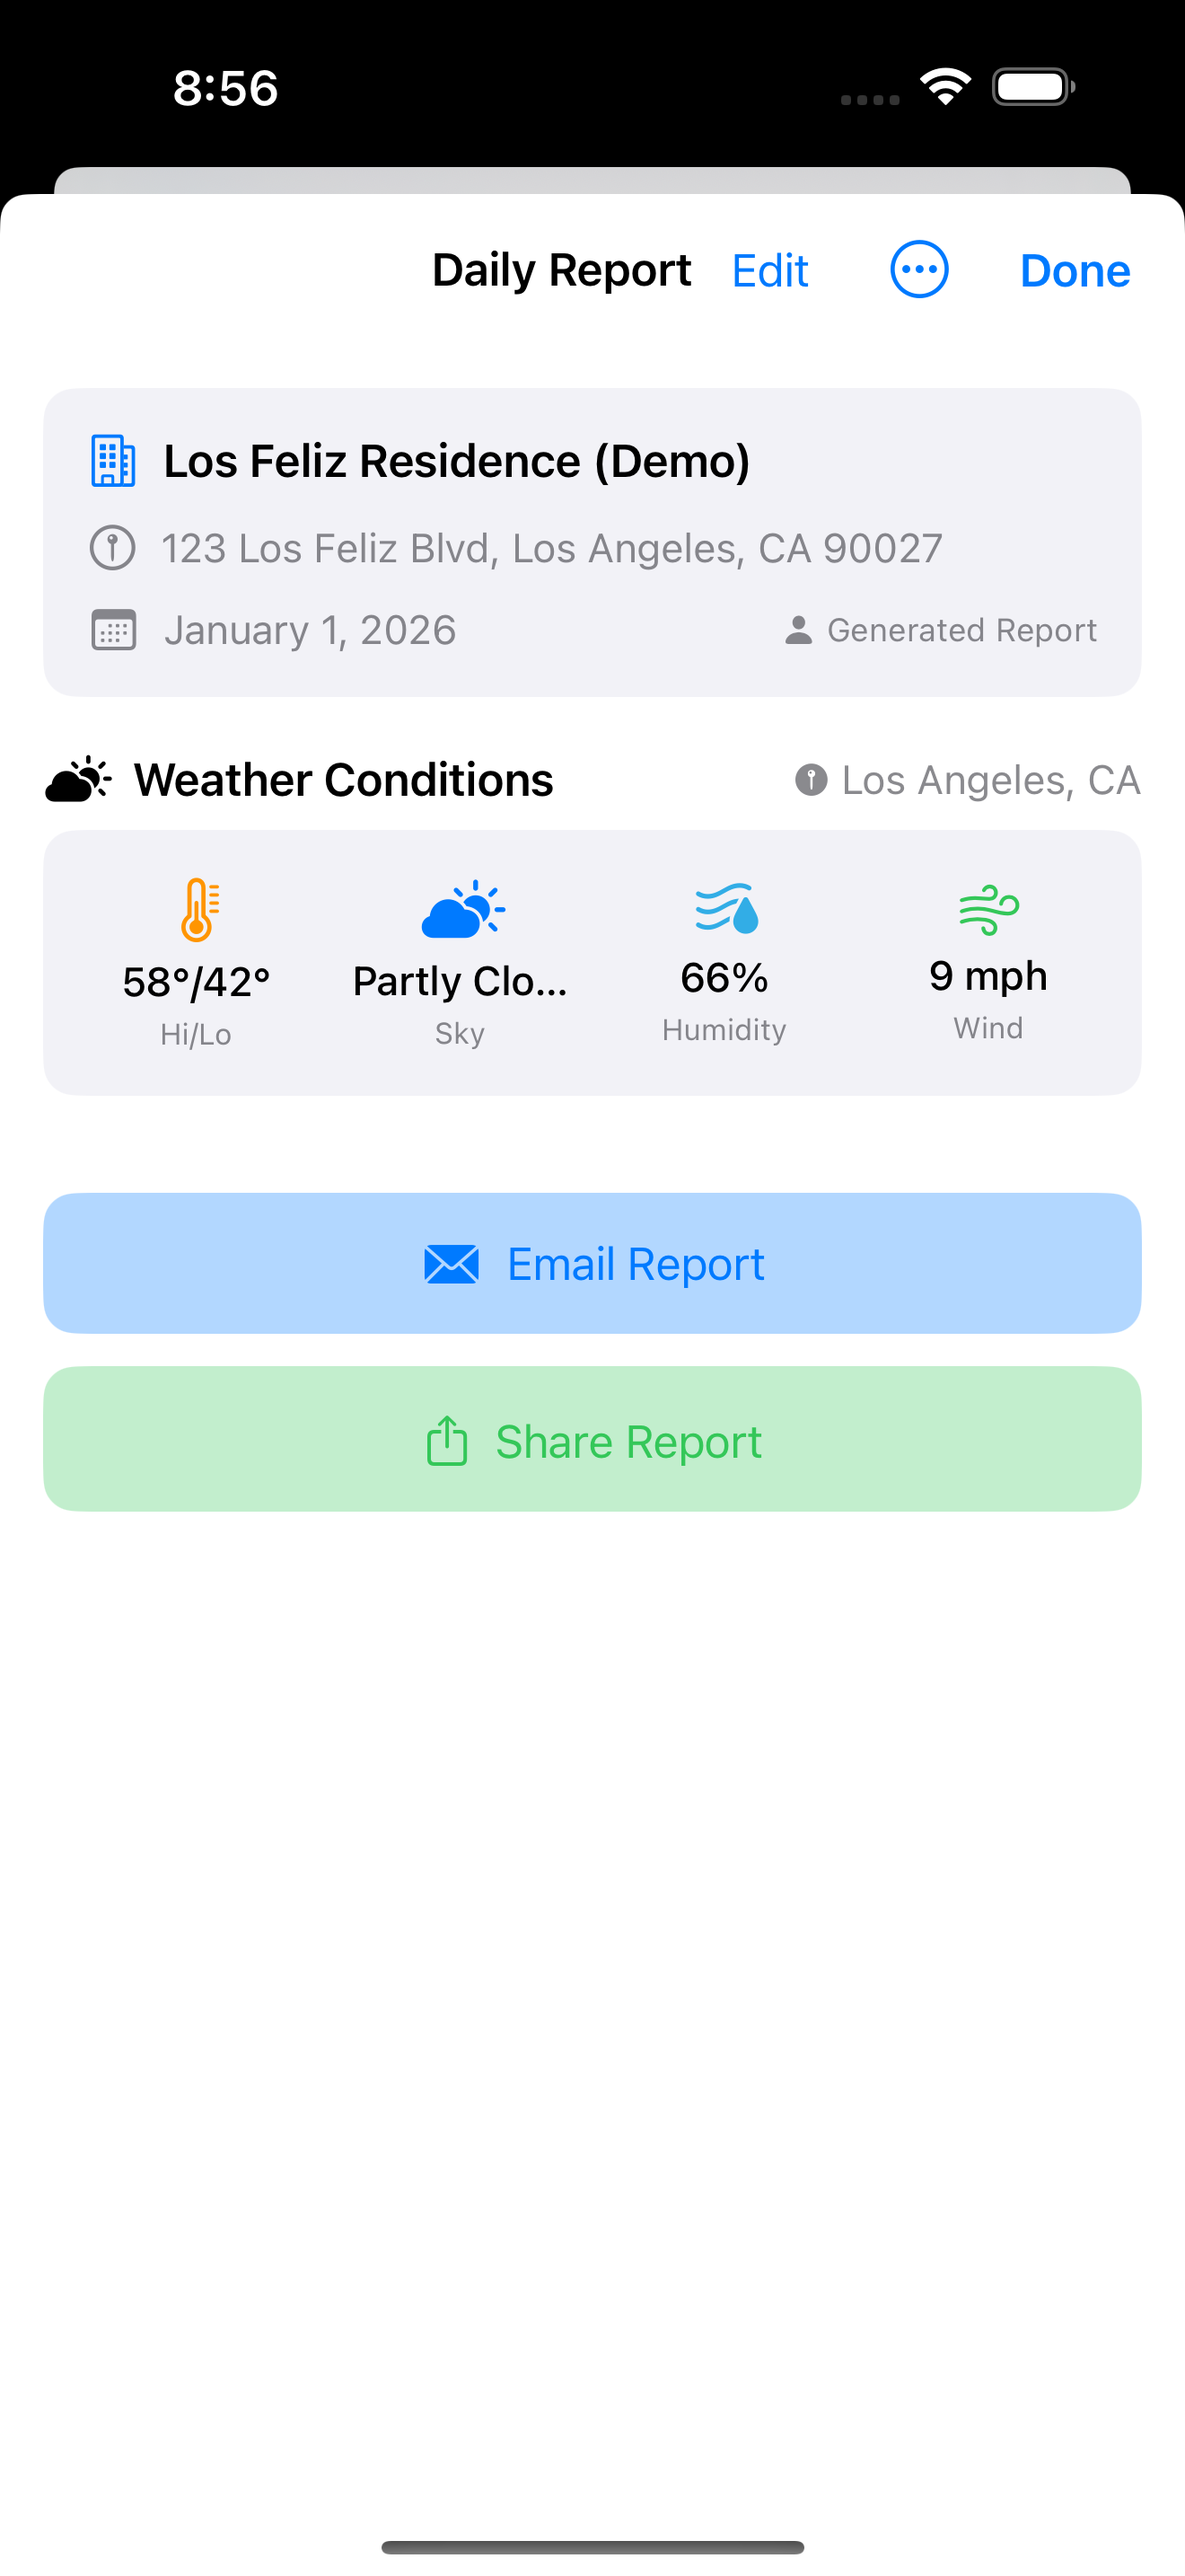
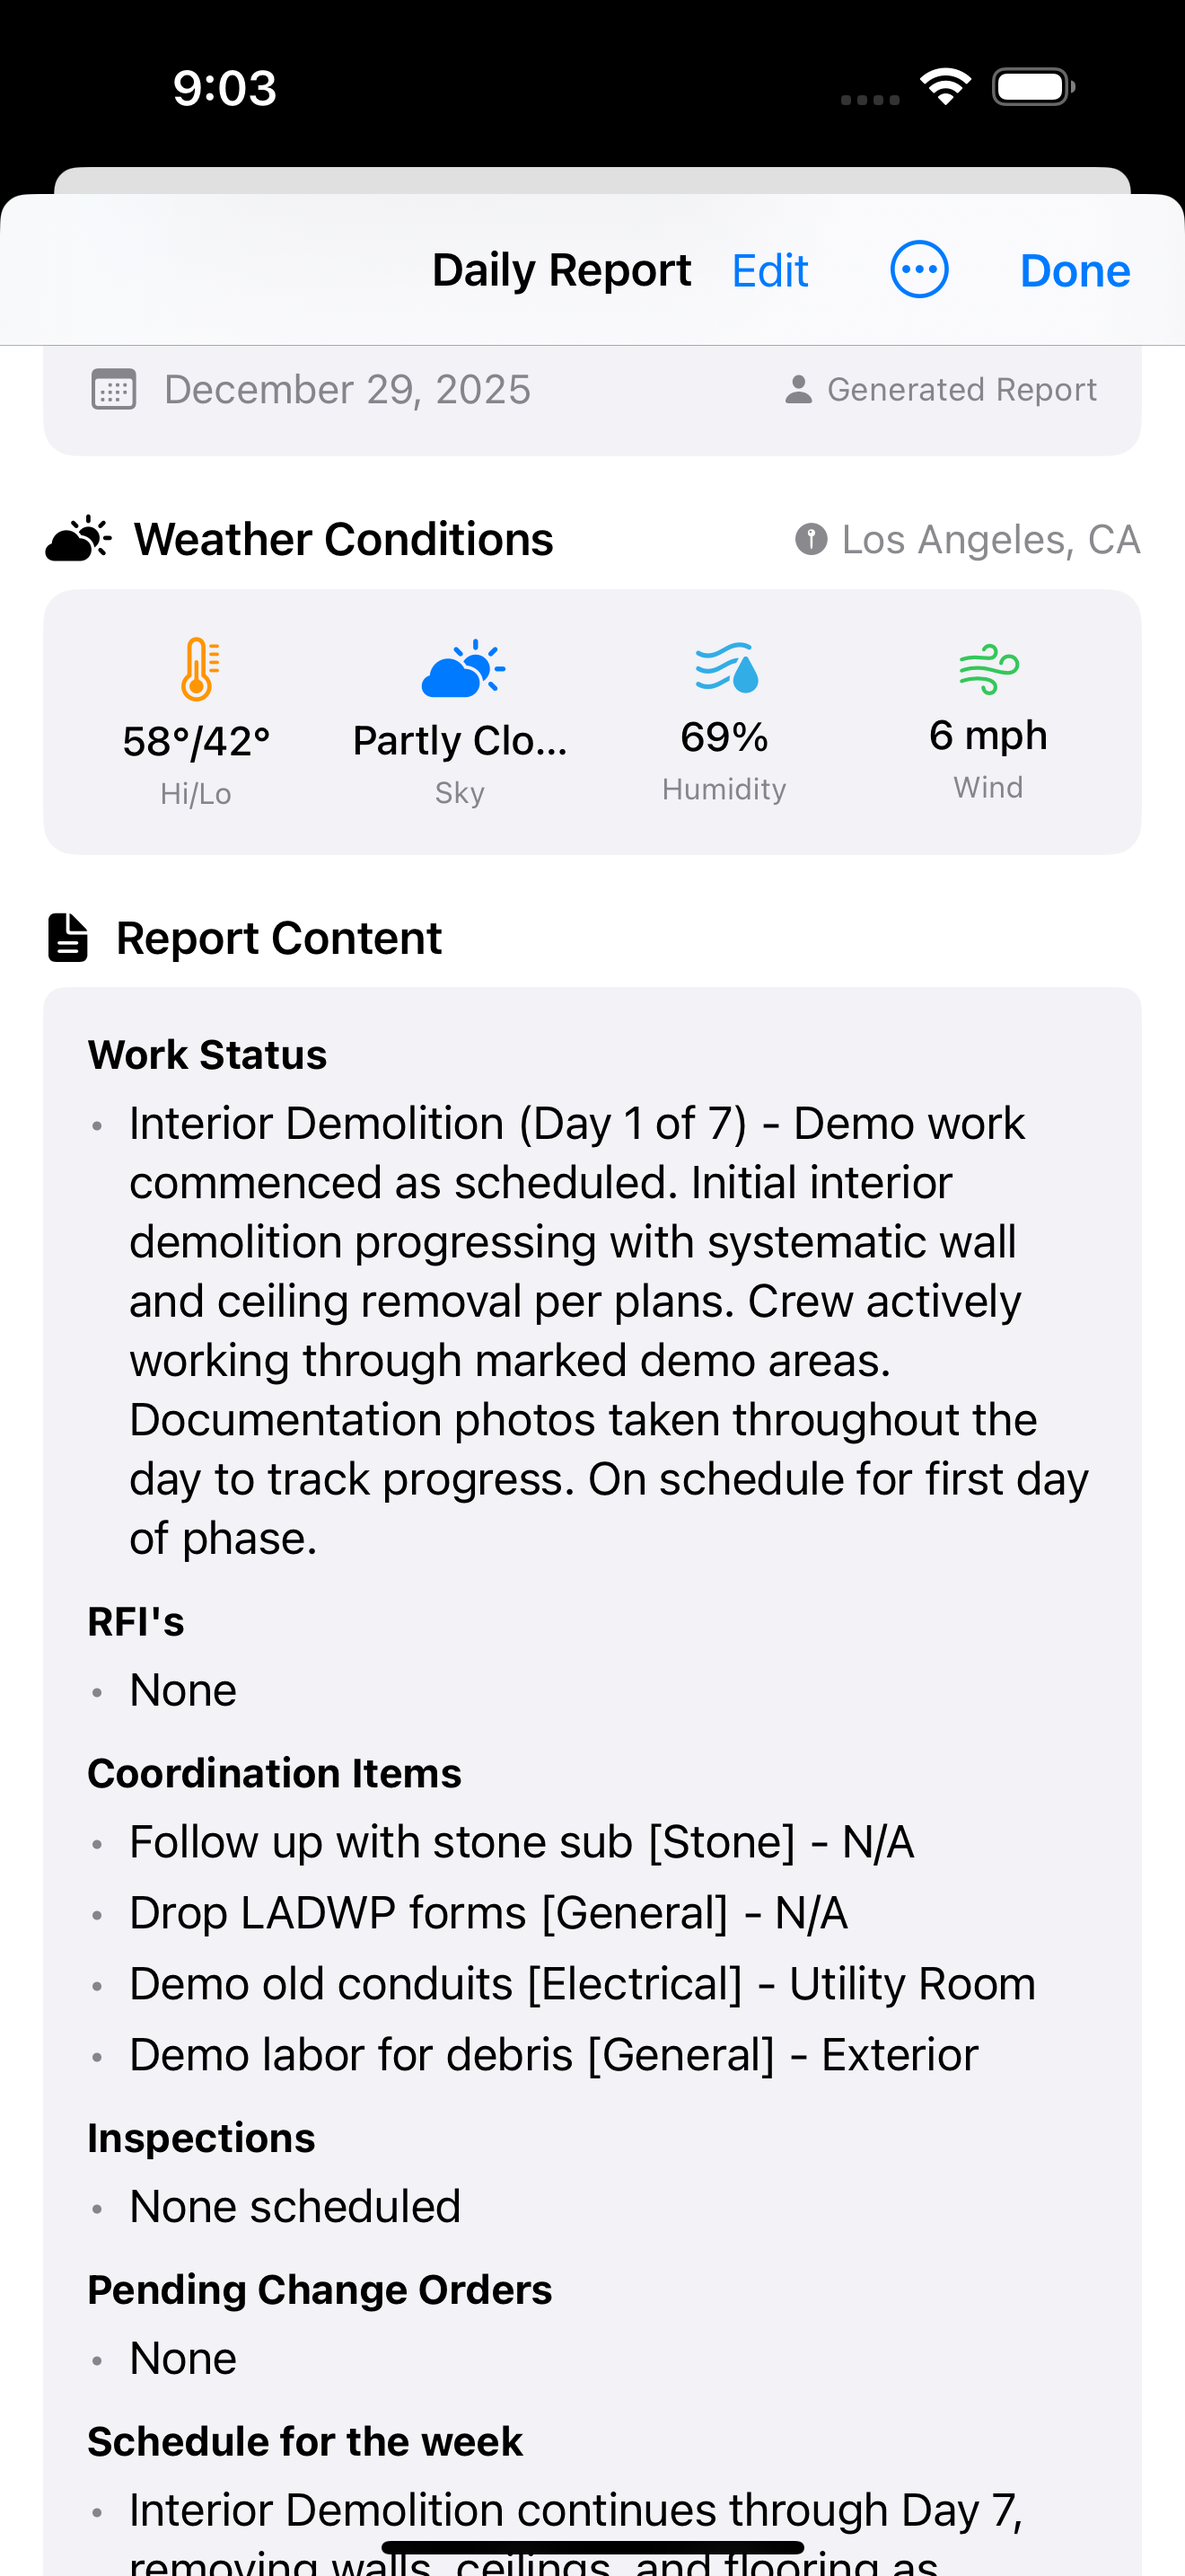
Update daily report screenshot with actual AI-generated content

diff --git a/index.html b/index.html
@@ -266,7 +266,7 @@
                 </div>
                 <div class="phone-wrapper">
                     <div class="phone-frame">
-                        <img src="screenshots/04_daily_report.png?v=20251229e" alt="FieldVision AI Report">
+                        <img src="screenshots/04_daily_report.png?v=20251229f" alt="FieldVision AI Report">
                     </div>
                     <p class="phone-label">AI-Generated Report</p>
                 </div>
